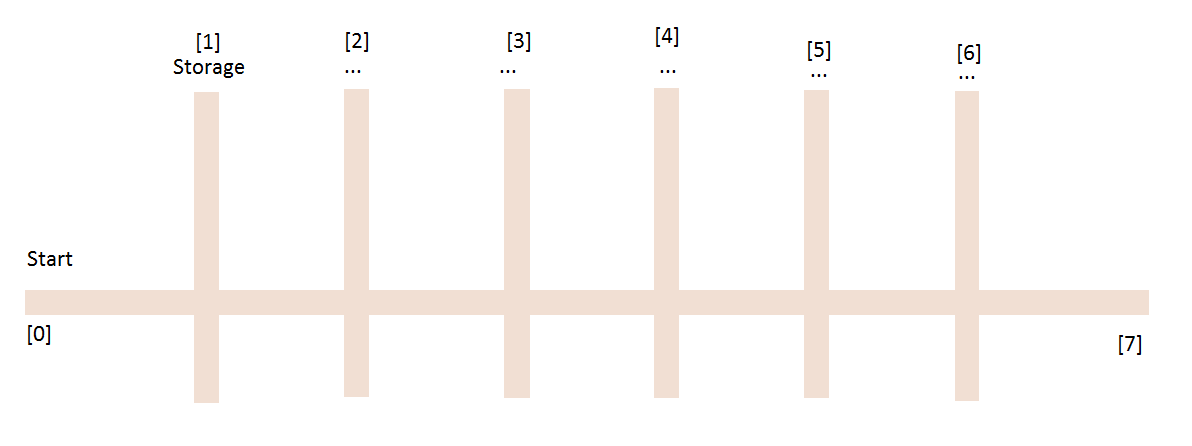
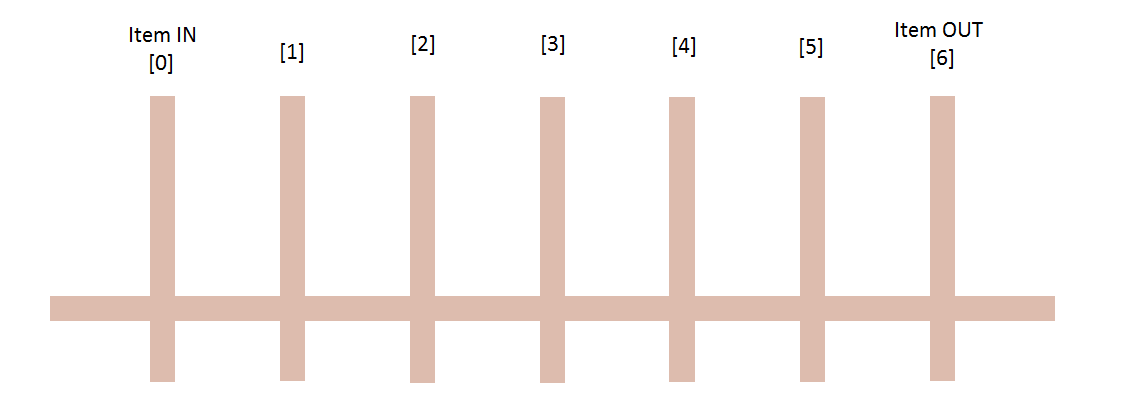
update map vn

diff --git a/GUI.html b/GUI.html
@@ -117,24 +117,24 @@
 	//
 	robotMove
 	var positionsOnMap = [
-		[39, 304],
-		[205, 301],
-		[205, 99],
-		[355, 301],
-		[355, 99],
-		[515, 301],
-		[515, 99],
-		[667, 301],
-		[667, 99],
-		[817, 301],
-		[817, 99],
-		[968, 301],
-		[968, 99],
-		[1131, 301]
+		[163, 121],
+		[163, 305],
+		[294, 121],
+		[294, 305],
+		[423, 121],
+		[423, 305],
+		[552, 121],
+		[552, 305],
+		[680, 121],
+		[680, 305],
+		[813, 121],
+		[813, 305],
+		[944, 121],
+		[944, 305],
 	];
 	positionsOnMap.forEach((item) =>{
-		item[0] /= 1192;
-		item[1] /= 446;
+		item[0] /= 1124;
+		item[1] /= 416;
 	});
 	function robotMove(positionId){
 		var map = document.getElementById("wareHouseMap");
@@ -157,7 +157,7 @@
 		robot.style.left = calcLeft;
 	}
 	robotMove(0);
-	
+
 	$("#tempReq").slider({});
 	$("#lightReq").slider({});
 	Sortable.create(document.getElementById('queuedWorks'));
